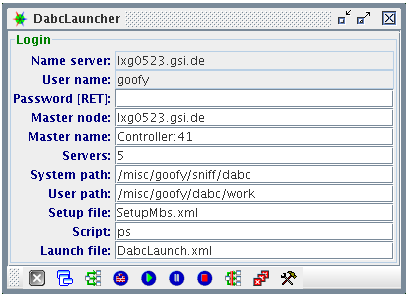
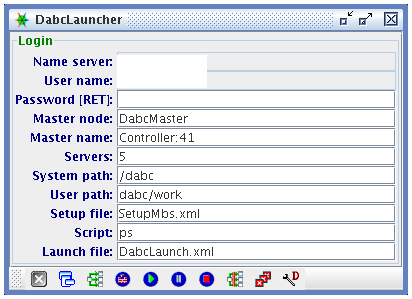
git-svn-id: https://subversion.gsi.de/dabc/trunk@434 bcbf6573-9a26-0410-9ebc-ce4ab7aade96

Changed region(s): [[0.0, 0.0, 0.9951, 1.0]]

diff --git a/doc/user/user-exa-mbs.tex b/doc/user/user-exa-mbs.tex
@@ -36,21 +36,8 @@ see \paref{user:guiSaveRestore}).
 \item[MbsUserPath]: \mbs\ user working directory. The GUI need not to have
 access to that filesystem.
 \item[MbsSystemPath]:  Path on Lynx where the \mbs\ is installed. GUI needs no access to this path.
-\item[MbsScript]: \mbs\ script to be executed via \keyw{rsh} (see button below).
-An execution script located relativ to \mbs\ path.
-Script \verba{script/remote\_exe.sc}
-sets all \mbs\ related variables and executes a program given as argument
-on user path. Arguments:
-\bcir
-\item \mbs\ system path (inserted by GUI). Script sets \keyw{MBSROOT} to this.
-\item \mbs\ user path (inserted by GUI). Script changes directory to this
-\item Program name.
-\item \mbs\ path of program. Script executes \verba{m\_launch} which forks
-program from this path.
-\item Optional dot if arguments follow.
-\item More arguments passed to program. 
-\ecir
-\item[MbsCommand]: Script command (argument to MbsScript).
+\item[MbsCommand]: With \keyw{RET} an \mbs\ command in executed (on current node).
+The shell script button executes this string as \verba{rsh} command on master node.
 \item[MbsServers]: Number of nodes plus prompter. This information
 is minimum for the GUI to know when all \mbs\ nodes are up. The GUI waits until
 this number of DIM servers is up and running.
@@ -76,8 +63,7 @@ Prompter, dispatcher and message loggers should still be running.\\
 \icon{disconn} Shut down all. Execute script \verba{prmshutdown.sc} at master node.
 After 2 seconds trigger the main \keyw{Update}.\\
 \icon{info} \comm{Show acquisition}. Output in log panel.\\
-\icon{rshmbs} Executes \keyw{Script} with argument \keyw{Command} at master node.\\
-\icon{controlmbs} Shell script.
+\icon{controlmbs} Shell script executes command on master node.
 
 \section[DABC event building]{\dabc\ event building}
 \subsection[MBS setup]{\mbs\ setup}
@@ -154,7 +140,6 @@ After two seconds trigger the main \keyw{Update}.\\
 Execute script \verba{prmshutdown.sc} at \mbs\ master node.
 After two seconds trigger the main \keyw{Update}.\\
 \icon{info} \comm{Show acquisition}. Output in log panel.\\
-\icon{rshmbs} Executes \keyw{Script} with argument \keyw{Command} at master node.\\
 \icon{controlmbs} Shell script for \mbs\ master node.\\
 \icon{controldabc} Shell script for \dabc\ master node.
 \subsection[MBS command panel]{\mbs\ command panel}
@@ -185,6 +170,7 @@ of util and transport after configuration.
 \item[FileOpen/State] \keyw{File open} | \keyw{File closed}
 \item[RunMode/State] \keyw{DABC connected} | \keyw{MBS to DABC} | \keyw{Transport client} | \keyw{MBS standalone}
 \item[SpillOn/State] \keyw{Spill ON} | \keyw{Spill OFF}
+\item[Trigger/State] \keyw{Master} | \keyw{Slave}
 \edes
 \subsection[MBS rates]{\mbs\ rates}
 \bdes
@@ -237,6 +223,7 @@ Task list is shown in info window (name slightly different).
 \item[MSG/Run] Run ID  as written in file header
 \item[MSG/Experiment] Experiment as written in file header
 \item[MSG/User] Lynx user name as written in file header
+\item[MSG/Platform] CPU platform
 \edes
 \subsection[MBS numbers]{\mbs\ numbers}
 \bdes
